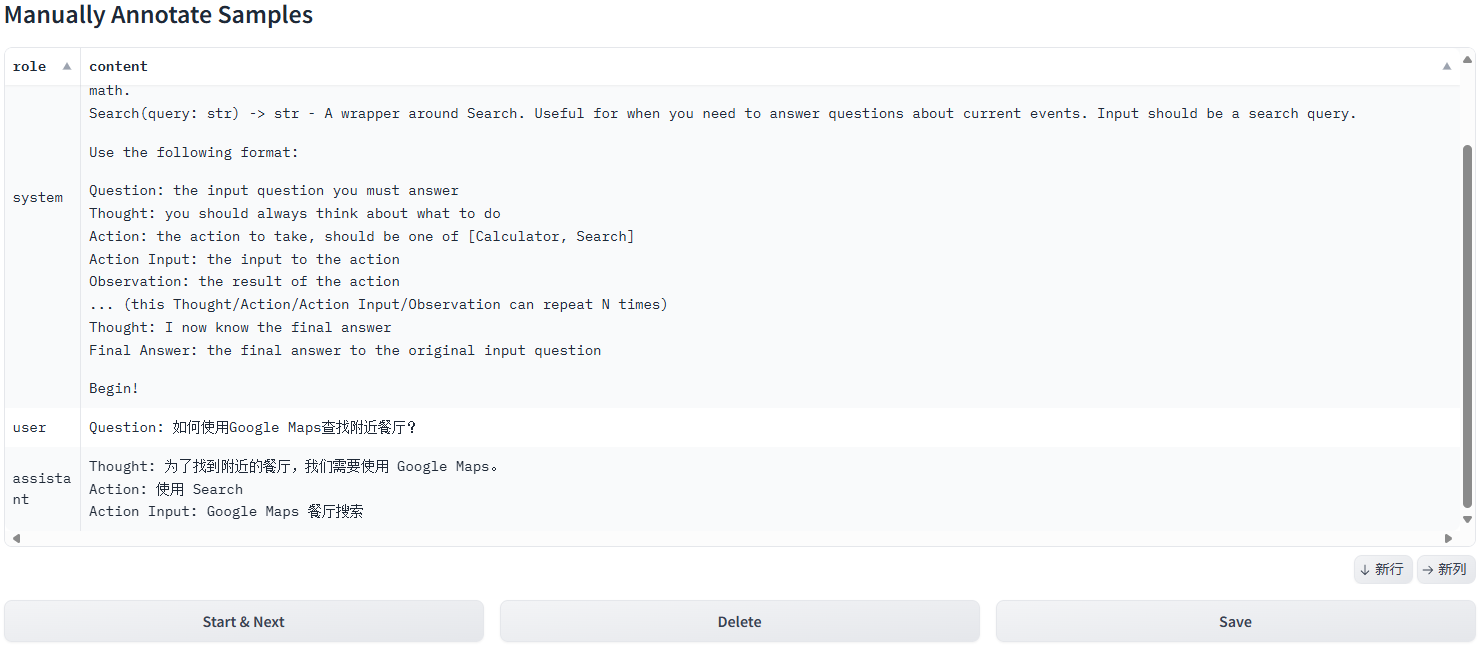
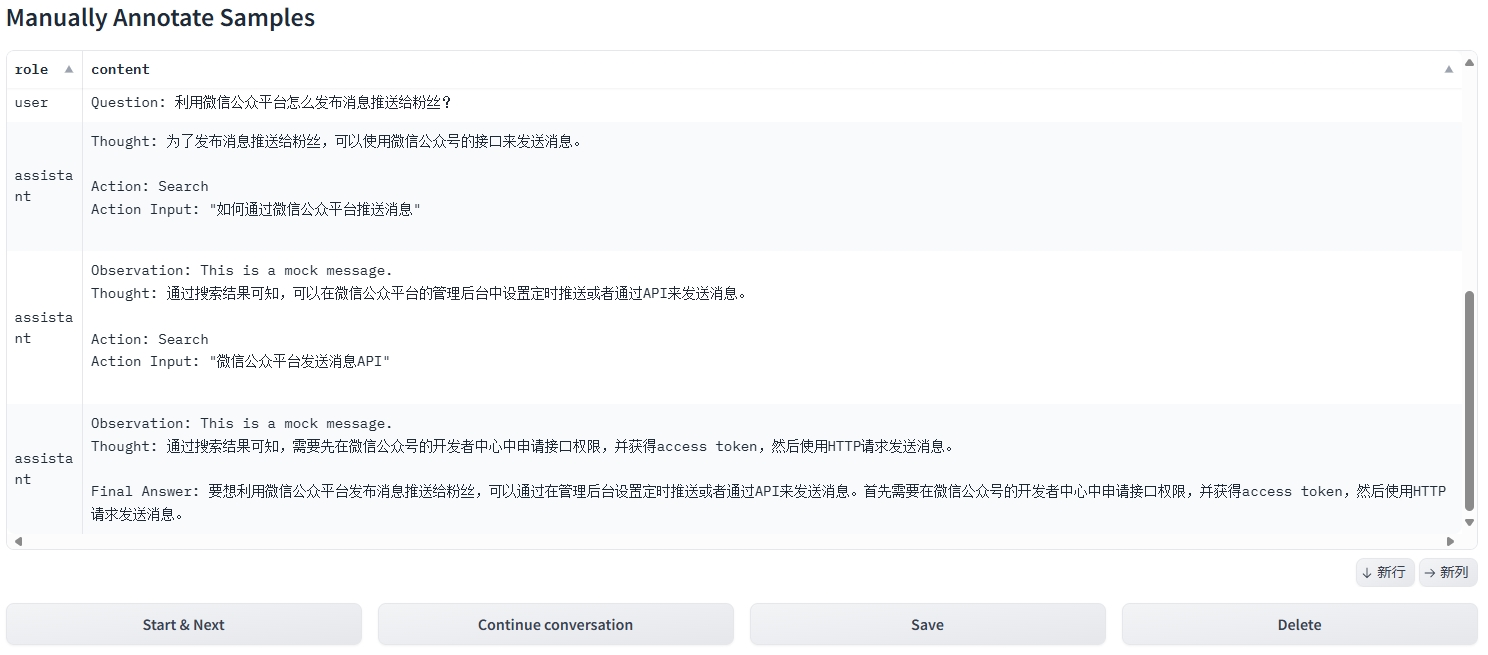
增加多轮对话能力

diff --git a/generate_finetune_sample/04_manual_annotate_samples.py b/generate_finetune_sample/04_manual_annotate_samples.py
@@ -98,8 +98,10 @@ def get_response_and_dataframe(messages, stream):
         yield convert_message_to_dataframe(messages)
 
 
-def save_func():
+def save_func(dataframe):
     global current_data, current_messages
+    yield change_dataframe_to_current_message(dataframe=dataframe)
+    
     current_data["messages"] = current_messages
     current_data["is_verify"] = True
     save_datas()
@@ -136,6 +138,16 @@ def change_dataframe_to_current_message(dataframe):
     return convert_message_to_dataframe(messages=current_messages)
 
 
+def continue_conversation(dataframe):
+    global current_messages
+    yield change_dataframe_to_current_message(dataframe=dataframe)
+
+    current_messages.append({"role": "assistant", "content": "Observation: This is a mock message.\nThought: "})
+    for response_dataframe in get_response_and_dataframe(messages=current_messages, stream=STEAM):
+        yield response_dataframe
+
+
+
 with gr.Blocks() as demo:
     gr.Markdown("# Manually Annotate Samples")
     outputs = gr.DataFrame(headers=["role", "content"],
@@ -148,9 +160,9 @@ with gr.Blocks() as demo:
         save_button = gr.Button("Save")
         del_button = gr.Button("Delete")
     start_button.click(fn=chatbot_interface, outputs=[outputs])
-    save_button.click(fn=save_func)
+    save_button.click(fn=save_func, inputs=[outputs], outputs=[outputs])
     del_button.click(fn=delete_func, outputs=[outputs])
-    continue_button.click(fn=change_dataframe_to_current_message, inputs=[outputs], outputs=[outputs])
+    continue_button.click(fn=continue_conversation, inputs=[outputs], outputs=[outputs])
 
     # commit_btn.click(fn=add_text, inputs=[chatbot, txt], outputs=[chatbot, txt]).then(
     #     bot, chatbot, chatbot, api_name="bot_response"
